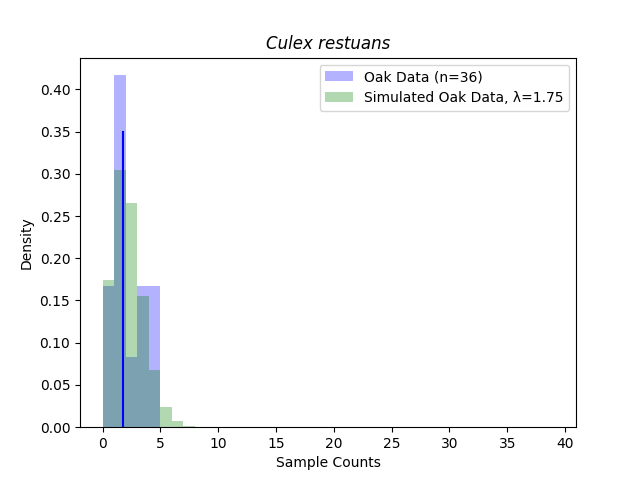
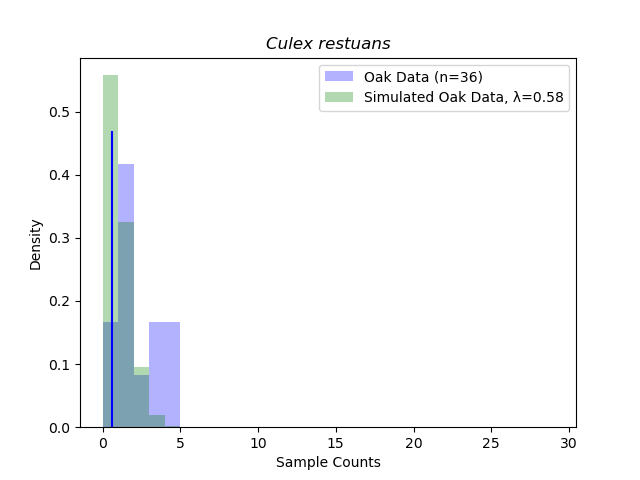
fixed a bug that reduced the samples by 1/3 (all Poisson ratios are the same just scaled by 1/3)

diff --git a/src/restuans.py b/src/restuans.py
@@ -13,7 +13,7 @@ emp_lambda_oak, emp_lambda_grass = np.sum(restuans.oak_data) / restuans.time_val
 rate_1 = np.random.poisson(lambda_estimate_oak1, 1000000)
 rate_2 = np.random.poisson(lambda_estimate_grass1, 1000000)
 
-bins = np.arange(0, 40)
+bins = np.arange(0, 30)
 
 plt.hist(restuans.oak_by_date, bins=bins, color='blue', alpha=0.3, label=f'Oak Data (n={len(restuans.oak_data)})', density=True)
 plt.hist(rate_1, color='green', bins=bins, alpha=0.3, label=f'Simulated Oak Data, \u03BB={round(lambda_estimate_oak1, 2)}', density=True)
@@ -26,7 +26,7 @@ plt.savefig(f"../figs/restuans/restuans_poisson_histogram_emp_data_oak_fig_a.png
 plt.clf()
 
 plt.hist(restuans.grass_by_date, bins=bins, color='blue', alpha=0.3, label=f'Grass Data (n={len(restuans.grass_data)})', density=True)
-plt.hist(rate_2, color='blue', bins=bins, alpha=0.3, label=f'Simulated Grass Data, \u03BB={round(lambda_estimate_grass1, 2)}', density=True)
+plt.hist(rate_2, color='green', bins=bins, alpha=0.3, label=f'Simulated Grass Data, \u03BB={round(lambda_estimate_grass1, 2)}', density=True)
 plt.axvline(lambda_estimate_grass1, color='green', ymax=0.8)
 plt.title("Culex restuans", style='italic')
 plt.xlabel('Sample Counts')

diff --git a/src/triseriatus.py b/src/triseriatus.py
@@ -13,7 +13,7 @@ emp_lambda_oak, emp_lambda_grass = np.sum(triseriatus.oak_data) / triseriatus.ti
 rate_1 = np.random.poisson(lambda_estimate_oak1, 1000000)
 rate_2 = np.random.poisson(lambda_estimate_grass1, 1000000)
 
-bins = np.arange(0, 40)
+bins = np.arange(0, 30)
 
 plt.hist(triseriatus.oak_by_date, bins=bins, color='blue', alpha=0.3, label=f'Oak Data (n={len(triseriatus.oak_data)})', density=True)
 plt.hist(rate_1, color='green', bins=bins, alpha=0.3, label=f'Simulated Oak Data, \u03BB={round(lambda_estimate_oak1, 2)}', density=True)

diff --git a/src/japonicus.py b/src/japonicus.py
@@ -13,7 +13,7 @@ emp_lambda_oak, emp_lambda_grass = np.sum(japonicus.oak_data) / japonicus.time_v
 rate_1 = np.random.poisson(lambda_estimate_oak1, 1000000)
 rate_2 = np.random.poisson(lambda_estimate_grass1, 1000000)
 
-bins = np.arange(0, 40)
+bins = np.arange(0, 30)
 
 plt.hist(japonicus.oak_by_date, bins=bins, color='blue', alpha=0.3, label=f'Oak Data (n={len(japonicus.oak_data)})', density=True)
 plt.hist(rate_1, color='green', bins=bins, alpha=0.3, label=f'Simulated Oak Data, \u03BB={round(lambda_estimate_oak1, 2)}', density=True)

diff --git a/src/species_class.py b/src/species_class.py
@@ -79,6 +79,6 @@ class Species:
         self.oak()
         self.grass()
         self.sites()
-        self.time_val = len(self.date_collection)
+        self.time_val = len(self.date_collection) * 3
 
 
